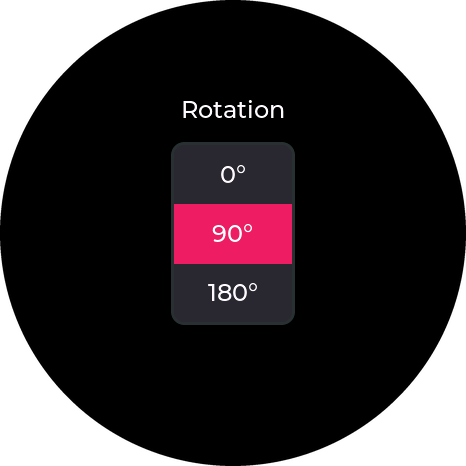
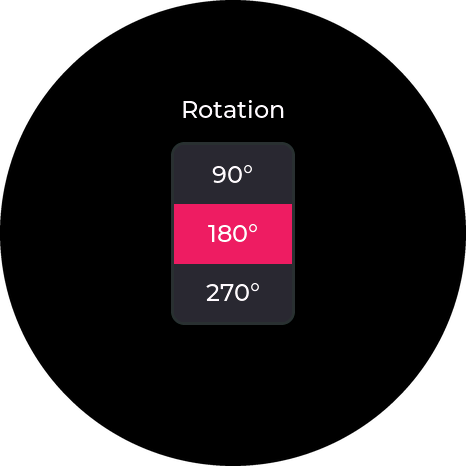
Set Rotation to 180 degrees in the housings, not 90
The housings turn the board a quarter turn, but the setting that puts
the picture upright in them is 180 degrees. First Start shows the
Rotation page at 180, and screenshots.py asks again when a GET's answer
arrives garbled.

Changed region(s): [[0.4506, 0.6009, 0.5708, 0.6609], [0.4506, 0.4807, 0.5708, 0.5408], [0.4506, 0.3305, 0.5408, 0.3906]]

diff --git a/tools/screenshots.py b/tools/screenshots.py
@@ -61,13 +61,19 @@ class Board:
         self.ser.write(text.encode() + b"\n")
 
     def api(self, method, target, body=""):
-        self.send(f"api {method} {target} {body}".rstrip())
-        for line in self._lines(5):
-            if line.startswith("CONSOLE: "):
-                answer = line[len("CONSOLE: "):]
-                if answer == "-1":
-                    raise RuntimeError(f"{method} {target}: no such request")
-                return json.loads(answer)
+        # Now and then a line from the board arrives garbled, so a GET is
+        # asked again; a POST isn't, as it may have been done already
+        for _ in range(3 if method == "GET" else 1):
+            self.send(f"api {method} {target} {body}".rstrip())
+            for line in self._lines(5):
+                if line.startswith("CONSOLE: "):
+                    answer = line[len("CONSOLE: "):]
+                    if answer == "-1":
+                        raise RuntimeError(f"{method} {target}: no such request")
+                    try:
+                        return json.loads(answer)
+                    except ValueError:
+                        break
         raise RuntimeError(f"{method} {target}: no answer")
 
     def _shot_line(self, text, lines):
@@ -209,8 +215,8 @@ def doc_shots(board, out):
     take("lovense_react", "Lovense", 3)
     board.api("POST", "/api/stop")
     take("settings_level", "Settings", info["features"][-1][1].index("Level"))
-    # Rotation at 90 degrees, as the housings need
-    board.api("POST", "/api/display?rot=1")
+    # Rotation at 180 degrees, as the housings need
+    board.api("POST", "/api/display?rot=2")
     take("settings_rotation", "Settings", info["features"][-1][1].index("Rotation"))
     board.api("POST", f"/api/display?rot={before['display']['rotation']}")
 

diff --git a/hardware/boards/waveshare_esp32s3_touch_amoled_1_75/README.md b/hardware/boards/waveshare_esp32s3_touch_amoled_1_75/README.md
@@ -16,7 +16,7 @@ The board has its own amplifier, speaker socket, microphones and battery charger
 ### How it goes together
 
 - The board sits in a cup at the front, with its glass flush with the front, and screws to the cup's back plate with three M2 countersunk screws (about M2 x 5) into the standoffs on its back.
-- It's turned a quarter turn from its usual way up, so its USB-C port faces right, out through the side of the housing.  The port is in a pocket in the side, only about 3 mm behind the pocket's floor, so any cable's plug reaches it, not just the slimmest.  Its side buttons and micro SD slot are on the left, and its pin header is at the top.  Set Rotation to 90 degrees in the settings to match.
+- It's turned a quarter turn from its usual way up, so its USB-C port faces right, out through the side of the housing.  The port is in a pocket in the side, only about 3 mm behind the pocket's floor, so any cable's plug reaches it, not just the slimmest.  Its side buttons and micro SD slot are on the left, and its pin header is at the top.  Set Rotation to 180 degrees in the settings to match.
 - The speaker sits in a shallow pod below the display.  Right below the voice port is the mask's filter mount, so the pod is only as deep as the speaker needs, and the **chin** behind it slopes back to the body, over the mount.  From the scan, the chin clears the mount by about 4.7 mm at its closest, at the mount's top edge, and the pod by about 8 mm.
 - The speaker goes in from the back of the pod before the chin goes on, and the adhesive frame on its front sticks it to the grille.  Its wire comes out of a notch in the middle of either short side of the pocket, and runs in a 2 mm gap behind it to the pocket's inner end, where an opening 7 mm wide lets its plug through into the chamber, to the board's speaker socket.  That end of the pocket reaches over the chamber's edge, and a 1.6 mm floor (`pocket_floor`) closes it off, so the opening is the only way through.  Plasticine seals the opening around the wire, and fills the gap behind the speaker, so less of the speaker reaches the microphones.
 - The chamber behind the board holds a 2000 mAh battery, standing upright and taped to the back.  The back's four screws are either side of it.  The board's speaker and battery sockets stand up off the back of the board, and their plugs go in through openings in the back plate, from the chamber.  The two sockets look the same, and the plate hides their labels, so a speaker and a battery are engraved in the plate beside them (`socket_marks`).
@@ -68,7 +68,7 @@ These come from the 3D model, not from a print, so check them with test prints:
 
 ### How it goes together
 
-- The board sits in the cup and screws to its back plate, as in the speaker housing, turned a quarter turn with its USB-C port in a pocket on the right, and its side buttons and micro SD slot on the left.  Set Rotation to 90 degrees in the settings to match.
+- The board sits in the cup and screws to its back plate, as in the speaker housing, turned a quarter turn with its USB-C port in a pocket on the right, and its side buttons and micro SD slot on the left.  Set Rotation to 180 degrees in the settings to match.
 - Behind the board is a chamber 7.1 mm deep, for a 603040 battery (6 x 30 x 40 mm, about 700-850 mAh) lying on its side and taped to the back.  It fits between the board's battery socket below it, its pin header above it, and the microphones to its right.  The battery's plug goes into the socket from behind, beside the battery rather than in front of it, so the battery can sit just behind the back plate, with 0.8 mm to spare (`battery_gap`) for foam tape.  Its outline is engraved on the front of the back, to show where to tape it.  That's what makes the housing thin.  It runs the board for about 4.5-5.5 hours.  The board charges it at 400 mA, about half its capacity an hour, the standard rate in LiPo datasheets, and it charges in about 2.5 hours.
 - There's no speaker.  The board's speaker socket is left empty, and the speaker and battery marks beside the two sockets show which is the battery's.  The sound player and the voice effects need a speaker, so this housing is for images, the voice displays, Lovense control and the phone remote.
 - The microphones don't need the speaker housing's cell, walled off from the chamber, as there's no speaker to keep out.  They keep its sleeves, sealed against the board by foam rings, so they hear the chamber, and not the gap behind the board, which is open to the outside through the USB-C and micro SD openings.  The chamber opens into the voice port through an opening in the back beside the battery, about 4 x 23 mm.

diff --git a/docs/hardware/waveshare_esp32s3_touch_amoled_1_75.md b/docs/hardware/waveshare_esp32s3_touch_amoled_1_75.md
@@ -16,7 +16,7 @@ Use the bare board, not the -B version that comes in its own case.
 - **Voice through the mask:** the microphones hear you through the mask's speaking diaphragm, which booms around 250 Hz and muffles everything above about 2 kHz, where the consonants are.  The firmware turns the boom down and the treble up (`VOICE_BOOM_` and `VOICE_TREBLE_`), which makes the voice effects much easier to understand.  More treble than that mostly brings up hiss.
 - **Speaker:** the microphones and the speaker share one audio clock, so sound is resampled to 32 kHz for the speaker, which is plenty for a small speaker.  `SPK_VOLUME` in `hal_board.c` sets how loud the board's amplifier goes, on top of the volume setting.
 - **Sealing the speaker from the microphones:** the microphones listen into the housing's chamber, so the less of the speaker reaches it, the louder the voice effect can go.  In the speaker model, plasticine around the speaker's wire and behind the speaker, a sealed cell for the microphones, and open-cell foam in it each help.  Sealing the speaker's opening and the plasticine behind it cut the speaker in the microphones by about 5 dB, and what's left after echo cancelling by about 11 dB.
-- **Rotation:** in both housings the board is turned a quarter turn, with its USB-C port facing right, so the Rotation setting is 90 degrees.
+- **Rotation:** in both housings the board is turned a quarter turn, with its USB-C port facing right, and the Rotation setting that puts the picture upright is 180 degrees.
 - **Images:** 466 pixels across fills the screen.
 - **Not used yet:** the clock chip, and the GPS on the -G version.
 

diff --git a/docs/build/first-start.md b/docs/build/first-start.md
@@ -28,9 +28,9 @@ Swipe **up and down** to move between features, and **left and right** between a
 
 ## 4. Turn the picture the right way round
 
-<img src="../images/screens/settings_rotation.png" width="180" align="right" alt="The Rotation page, set to 90 degrees">
+<img src="../images/screens/settings_rotation.png" width="180" align="right" alt="The Rotation page, set to 180 degrees">
 
-In the housing, the board sits a quarter turn round from its usual way up, so its USB-C port faces the side.  Swipe to **Settings**, then to **Rotation**, and scroll the roller to **90°**.  The picture turns about a second after you stop scrolling.
+In the housing, the board sits turned from its usual way up, with its USB-C port facing the side, so the picture needs turning to match.  Swipe to **Settings**, then to **Rotation**, and scroll the roller to **180°**.  The picture turns about a second after you stop scrolling.
 
 <br clear="right">
 
